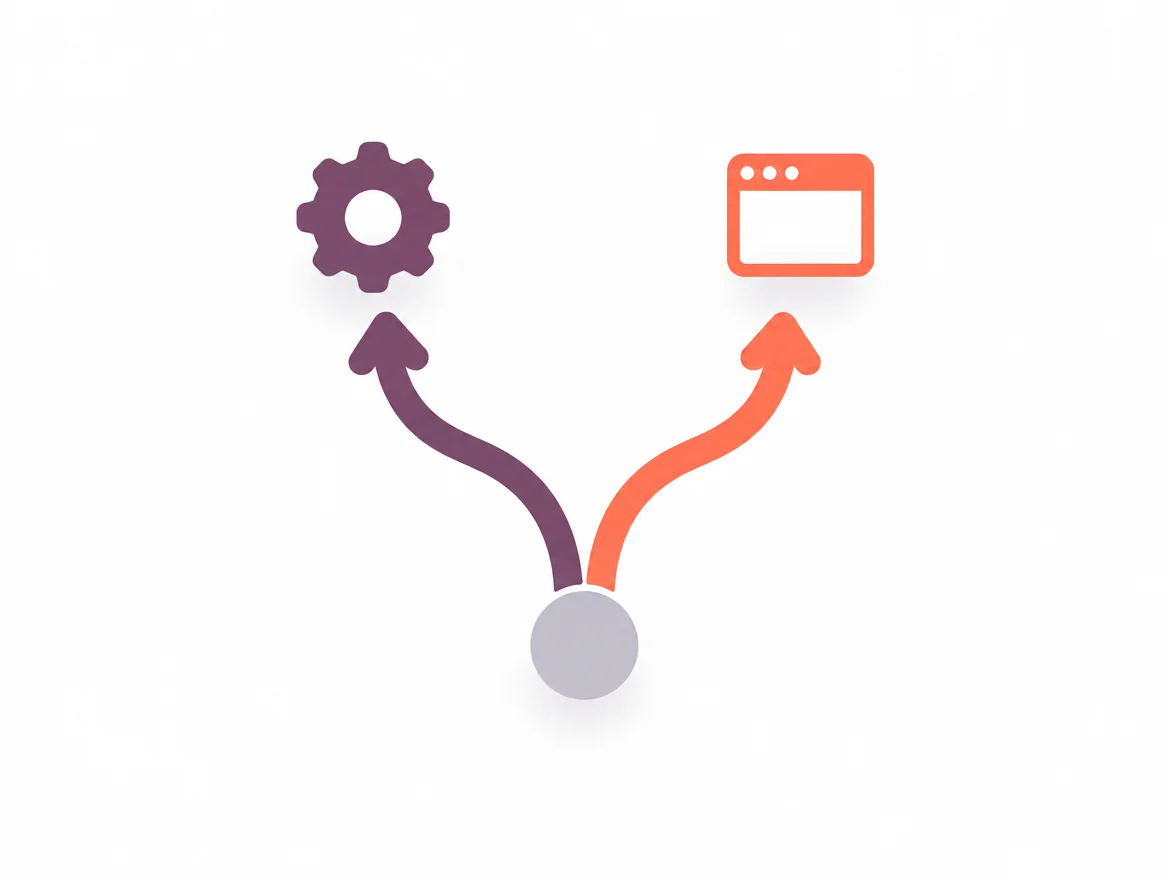
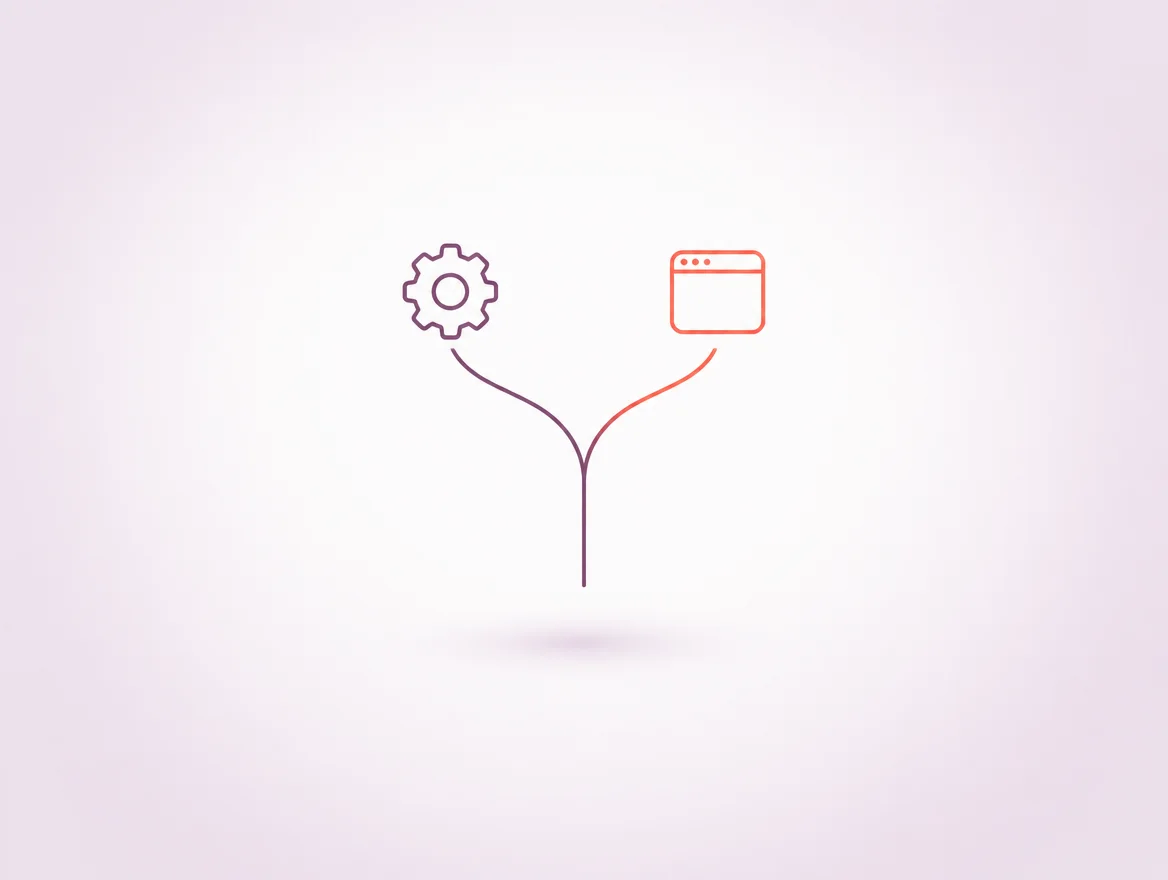
Improve guide thumbnails to refined editorial style, add About page experience section
- Replaced all 10 guide thumbnails: previous flat clipart-style icons were
  too generic; new versions use delicate line-art on soft gradient
  backgrounds, consistent with the hero/philosophy background imagery
  already established elsewhere on the site
- Pre-staged 6 more thumbnails for upcoming new guides (unused until those
  guide pages are added)
- About page: added a real "Who's behind this" section (5+ years of
  hands-on Odoo implementation and automation-building experience) and
  adjusted "Where things stand" to reflect that the brand is new but the
  experience isn't - no fabricated client/case-study claims added

diff --git a/src/app/about/page.tsx b/src/app/about/page.tsx
@@ -105,15 +105,30 @@ export default function AboutPage() {
       </p>
 
       <h2 className="text-xl font-semibold text-[var(--foreground)]">
+        Who&apos;s behind this
+      </h2>
+      <p>
+        {BRAND_NAME} is a new name, but not a new skill set. Behind it is
+        over five years of hands-on Odoo implementation work: configuring
+        Odoo for real businesses, and building the automations and
+        integrations that keep it running smoothly once the initial setup is
+        done. This site exists because that work kept turning up the same
+        pattern, over and over: the fix a team actually needed was rarely
+        &quot;more Odoo.&quot; It was one small, focused app sitting outside
+        it, talking to it through its API.
+      </p>
+
+      <h2 className="text-xl font-semibold text-[var(--foreground)]">
         Where things stand
       </h2>
       <p>
-        This is a small, early-stage studio. Rather than pad this page with
-        claims that aren&apos;t true yet, the honest version is simpler: the
-        approach above is the actual approach, the example apps on the
-        homepage are real working demonstrations of the pattern (not mockups
-        of hypothetical clients), and every project is scoped and quoted
-        individually through a direct conversation. See{" "}
+        The brand is new; the experience isn&apos;t. Rather than pad this
+        page with claims that aren&apos;t true, the honest version is
+        simpler: the approach above is the actual approach, the example apps
+        on the homepage are real working demonstrations of the pattern (not
+        mockups of hypothetical clients), and every project is scoped and
+        quoted individually through a direct conversation, based on the
+        specific Odoo setup and workflow in front of it. See{" "}
         <Link
           href="/#contact"
           className="font-medium text-[var(--odoo-teal)] underline underline-offset-4 hover:no-underline"
